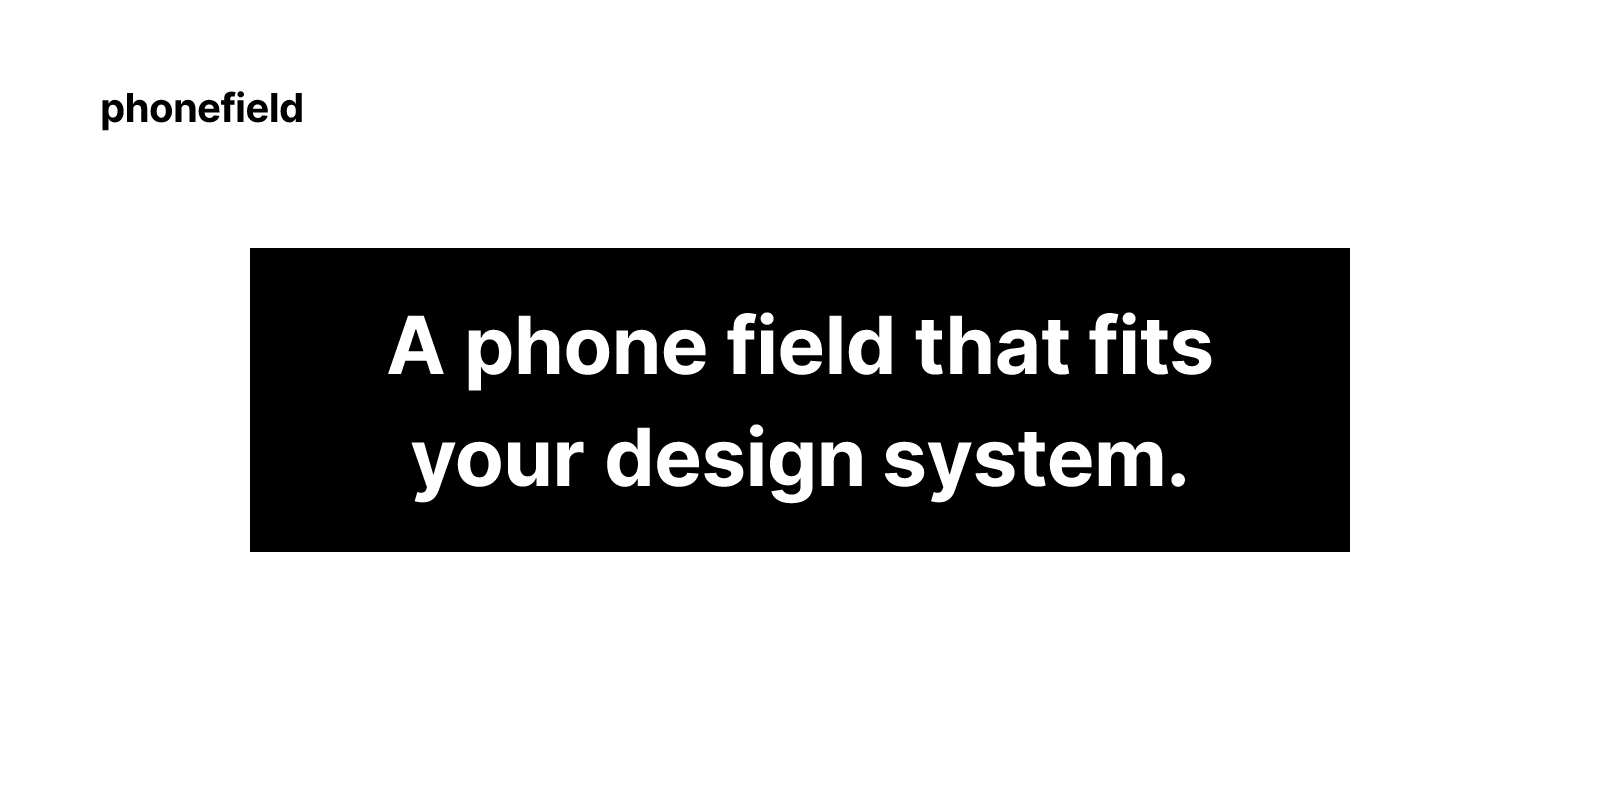
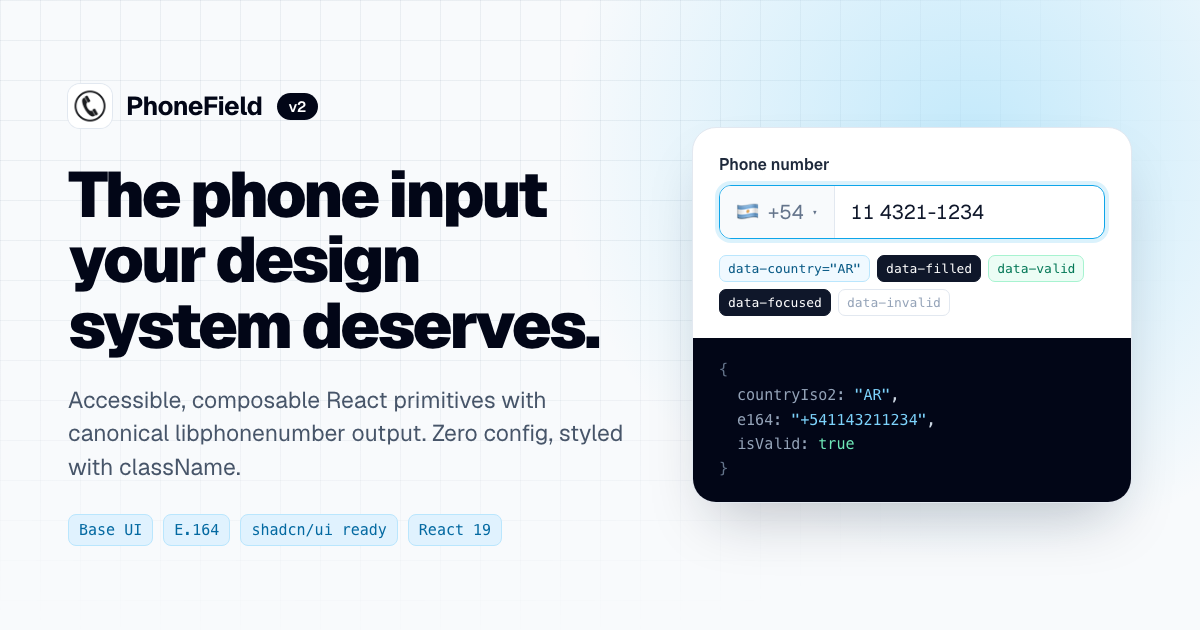
Fix site SEO and social previews
- Add a shared SEO helper: per-page title, description, robots,
  canonical, Open Graph, and Twitter tags; site-wide image, icons,
  manifest, and theme tags on the root.
- Use an absolute 1200x630 Open Graph image redesigned for v2.
- Add sitemap.xml (linked from robots.txt), JSON-LD structured data,
  an apple-touch-icon, and a noindex 404 page that returns status 404.

diff --git a/apps/web/src/lib/seo.ts b/apps/web/src/lib/seo.ts
@@ -1,0 +1,116 @@
+export const SITE_URL = "https://phonefield.vercel.app";
+export const SITE_NAME = "PhoneField";
+export const REPOSITORY_URL = "https://github.com/damianricobelli/phonefield";
+
+export const OG_IMAGE = {
+	url: `${SITE_URL}/opengraph.png`,
+	width: 1200,
+	height: 630,
+	alt: "PhoneField v2: the composable React phone input for your design system",
+} as const;
+
+export function absoluteUrl(path = "/") {
+	return new URL(path, SITE_URL).toString();
+}
+
+type PageSeo = {
+	/** 50–60 characters reads best in search results. */
+	title: string;
+	/** 120–160 characters reads best in search results. */
+	description: string;
+	path: string;
+};
+
+/**
+ * Per-page tags. TanStack Router keeps the deepest route's `meta` for each
+ * name/property, so pages override the site defaults from the root route.
+ * Links are not deduplicated, so the canonical lives only on pages.
+ */
+export function pageSeo({ title, description, path }: PageSeo) {
+	const url = absoluteUrl(path);
+	return {
+		meta: [
+			{ title },
+			{ name: "description", content: description },
+			{ name: "robots", content: "index, follow, max-image-preview:large" },
+			{ property: "og:title", content: title },
+			{ property: "og:description", content: description },
+			{ property: "og:url", content: url },
+			{ name: "twitter:title", content: title },
+			{ name: "twitter:description", content: description },
+			{ name: "twitter:url", content: url },
+		],
+		links: [{ rel: "canonical", href: url }],
+	};
+}
+
+/**
+ * Site-wide tags, rendered on every page including 404s. Titles,
+ * descriptions, robots, and canonicals belong to pages (see pageSeo).
+ */
+export const siteMeta = [
+	{ charSet: "utf-8" },
+	{ name: "viewport", content: "width=device-width, initial-scale=1" },
+	{ name: "application-name", content: SITE_NAME },
+	{ name: "apple-mobile-web-app-title", content: SITE_NAME },
+	{ name: "author", content: "damianricobelli" },
+	{ name: "theme-color", content: "#f8fafc" },
+	{ name: "color-scheme", content: "light" },
+	// Example numbers on the page should not become tap-to-call links on iOS.
+	{ name: "format-detection", content: "telephone=no" },
+	{ property: "og:site_name", content: SITE_NAME },
+	{ property: "og:type", content: "website" },
+	{ property: "og:locale", content: "en_US" },
+	{ property: "og:image", content: OG_IMAGE.url },
+	{ property: "og:image:secure_url", content: OG_IMAGE.url },
+	{ property: "og:image:type", content: "image/png" },
+	{ property: "og:image:width", content: String(OG_IMAGE.width) },
+	{ property: "og:image:height", content: String(OG_IMAGE.height) },
+	{ property: "og:image:alt", content: OG_IMAGE.alt },
+	{ name: "twitter:card", content: "summary_large_image" },
+	{ name: "twitter:image", content: OG_IMAGE.url },
+	{ name: "twitter:image:alt", content: OG_IMAGE.alt },
+];
+
+export const siteLinks = [
+	{ rel: "icon", href: "/favicon.ico", sizes: "48x48" },
+	{ rel: "icon", href: "/logo192.png", type: "image/png", sizes: "192x192" },
+	{ rel: "apple-touch-icon", href: "/apple-touch-icon.png" },
+	{ rel: "manifest", href: "/manifest.json" },
+];
+
+/** Structured data for the home page. */
+export const softwareJsonLd = {
+	"@context": "https://schema.org",
+	"@graph": [
+		{
+			"@type": "WebSite",
+			"@id": `${SITE_URL}/#website`,
+			url: absoluteUrl("/"),
+			name: SITE_NAME,
+			description:
+				"Documentation, recipes, and a live playground for the PhoneField React component.",
+			inLanguage: "en",
+		},
+		{
+			"@type": "SoftwareSourceCode",
+			"@id": `${SITE_URL}/#software`,
+			name: SITE_NAME,
+			description:
+				"Accessible, composable React phone input primitives built on Base UI and libphonenumber-js.",
+			url: absoluteUrl("/"),
+			codeRepository: REPOSITORY_URL,
+			programmingLanguage: ["TypeScript", "React"],
+			runtimePlatform: "React 19",
+			license: "https://opensource.org/licenses/MIT",
+			version: "2.0.0",
+			image: OG_IMAGE.url,
+			author: {
+				"@type": "Person",
+				name: "damianricobelli",
+				url: "https://github.com/damianricobelli",
+			},
+			isPartOf: { "@id": `${SITE_URL}/#website` },
+		},
+	],
+};

diff --git a/apps/web/src/routes/__root.tsx b/apps/web/src/routes/__root.tsx
@@ -2,58 +2,16 @@ import { TanStackDevtools } from "@tanstack/react-devtools";
 import { createRootRoute, HeadContent, Scripts } from "@tanstack/react-router";
 import { TanStackRouterDevtoolsPanel } from "@tanstack/react-router-devtools";
 
+import { NotFoundPage } from "@/components/not-found-page";
+import { siteLinks, siteMeta } from "@/lib/seo";
 import appCss from "../styles.css?url";
 
 export const Route = createRootRoute({
 	head: () => ({
-		meta: [
-			{
-				charSet: "utf-8",
-			},
-			{
-				name: "viewport",
-				content: "width=device-width, initial-scale=1",
-			},
-			{
-				title: "PhoneField — Composable React phone input",
-			},
-			{
-				name: "description",
-				content:
-					"Accessible, composable React phone input primitives built on Base UI and libphonenumber-js. Zero config, fully stylable, with field state built in.",
-			},
-			{
-				property: "og:image",
-				content: "/opengraph.png",
-			},
-			{
-				property: "og:image:width",
-				content: "1200",
-			},
-			{
-				property: "og:image:height",
-				content: "630",
-			},
-			{
-				property: "og:image:alt",
-				content: "PhoneField",
-			},
-			{
-				property: "og:image:type",
-				content: "image/png",
-			},
-			{
-				property: "og:image:url",
-				content: "/opengraph.png",
-			},
-		],
-		links: [
-			{
-				rel: "stylesheet",
-				href: appCss,
-			},
-		],
+		meta: siteMeta,
+		links: [{ rel: "stylesheet", href: appCss }, ...siteLinks],
 	}),
+	notFoundComponent: NotFoundPage,
 	shellComponent: RootDocument,
 });
 

diff --git a/apps/web/src/lib/seo.test.ts b/apps/web/src/lib/seo.test.ts
@@ -1,0 +1,44 @@
+import { describe, expect, it } from "vitest";
+import { OG_IMAGE, pageSeo, siteMeta } from "@/lib/seo";
+
+describe("seo", () => {
+	it("builds absolute, consistent page tags", () => {
+		const { meta, links } = pageSeo({
+			title: "Recipes — PhoneField",
+			description: "Copy-paste recipes.",
+			path: "/recipes",
+		});
+		const byKey = Object.fromEntries(
+			meta.map((tag) => [
+				"title" in tag ? "title" : (tag.name ?? tag.property),
+				"title" in tag ? tag.title : tag.content,
+			]),
+		);
+
+		expect(links).toEqual([
+			{ rel: "canonical", href: "https://phonefield.vercel.app/recipes" },
+		]);
+		expect(byKey["og:url"]).toBe("https://phonefield.vercel.app/recipes");
+		expect(byKey["og:title"]).toBe(byKey.title);
+		expect(byKey["twitter:description"]).toBe(byKey.description);
+	});
+
+	it("serves an absolute, correctly sized social image", () => {
+		const image = siteMeta.find(
+			(tag) => "property" in tag && tag.property === "og:image",
+		);
+		expect(image && "content" in image ? image.content : "").toMatch(
+			/^https:\/\//,
+		);
+		expect([OG_IMAGE.width, OG_IMAGE.height]).toEqual([1200, 630]);
+	});
+
+	it("leaves titles, descriptions, and robots to pages", () => {
+		const keys = siteMeta.map((tag) =>
+			"title" in tag ? "title" : "name" in tag ? tag.name : undefined,
+		);
+		expect(keys).not.toContain("title");
+		expect(keys).not.toContain("description");
+		expect(keys).not.toContain("robots");
+	});
+});

diff --git a/apps/web/src/components/not-found-page.tsx b/apps/web/src/components/not-found-page.tsx
@@ -1,0 +1,35 @@
+import { Link } from "@tanstack/react-router";
+import { SitePage } from "@/components/site-page";
+import { Button } from "@/components/ui/button";
+
+export function NotFoundPage() {
+	return (
+		<SitePage>
+			{/* React hoists these into <head>; keep missing pages out of the index. */}
+			<title>Page not found — PhoneField</title>
+			<meta name="robots" content="noindex" />
+			<section className="mx-auto flex max-w-xl flex-col items-center px-5 py-28 text-center sm:px-6">
+				<p className="font-mono text-sm text-sky-700">404</p>
+				<h1 className="mt-3 text-3xl font-bold tracking-tight text-slate-950">
+					This page doesn&apos;t exist.
+				</h1>
+				<p className="mt-3 text-base leading-7 text-slate-600">
+					The link may be outdated. The docs, playground, and recipes are still
+					one click away.
+				</p>
+				<div className="mt-8 flex flex-wrap justify-center gap-3">
+					<Button render={<Link to="/" />} nativeButton={false}>
+						Go home
+					</Button>
+					<Button
+						variant="outline"
+						render={<Link to="/recipes" />}
+						nativeButton={false}
+					>
+						Browse recipes
+					</Button>
+				</div>
+			</section>
+		</SitePage>
+	);
+}

diff --git a/apps/web/src/routes/recipes.tsx b/apps/web/src/routes/recipes.tsx
@@ -2,19 +2,17 @@ import { createFileRoute } from "@tanstack/react-router";
 import { DocumentationShell } from "@/components/documentation-shell";
 import { RecipesSection, recipeNavigation } from "@/components/recipes-section";
 import { SitePage } from "@/components/site-page";
+import { pageSeo } from "@/lib/seo";
 
 export const Route = createFileRoute("/recipes")({
 	component: RecipesPage,
-	head: () => ({
-		meta: [
-			{ title: "Recipes — PhoneField" },
-			{
-				name: "description",
-				content:
-					"Copy-paste PhoneField recipes for forms, verification, mobile flows, and localization.",
-			},
-		],
-	}),
+	head: () =>
+		pageSeo({
+			title: "Recipes — PhoneField React phone input examples",
+			description:
+				"Copy-paste React phone input recipes: shadcn/ui, React Hook Form, TanStack Form, validation, OTP, paste detection, drawers, and localization.",
+			path: "/recipes",
+		}),
 });
 
 function RecipesPage() {

diff --git a/apps/web/src/routes/index.tsx b/apps/web/src/routes/index.tsx
@@ -1,4 +1,23 @@
 import { createFileRoute } from "@tanstack/react-router";
 import { HomePage } from "@/components/home-page";
+import { pageSeo, softwareJsonLd } from "@/lib/seo";
 
-export const Route = createFileRoute("/")({ component: HomePage });
+const seo = pageSeo({
+	title: "PhoneField — Composable React phone input for Base UI",
+	description:
+		"Accessible React phone number input with country picker, as-you-type formatting, validation, and E.164 output. Zero config, styled with className.",
+	path: "/",
+});
+
+export const Route = createFileRoute("/")({
+	component: HomePage,
+	head: () => ({
+		...seo,
+		scripts: [
+			{
+				type: "application/ld+json",
+				children: JSON.stringify(softwareJsonLd),
+			},
+		],
+	}),
+});
